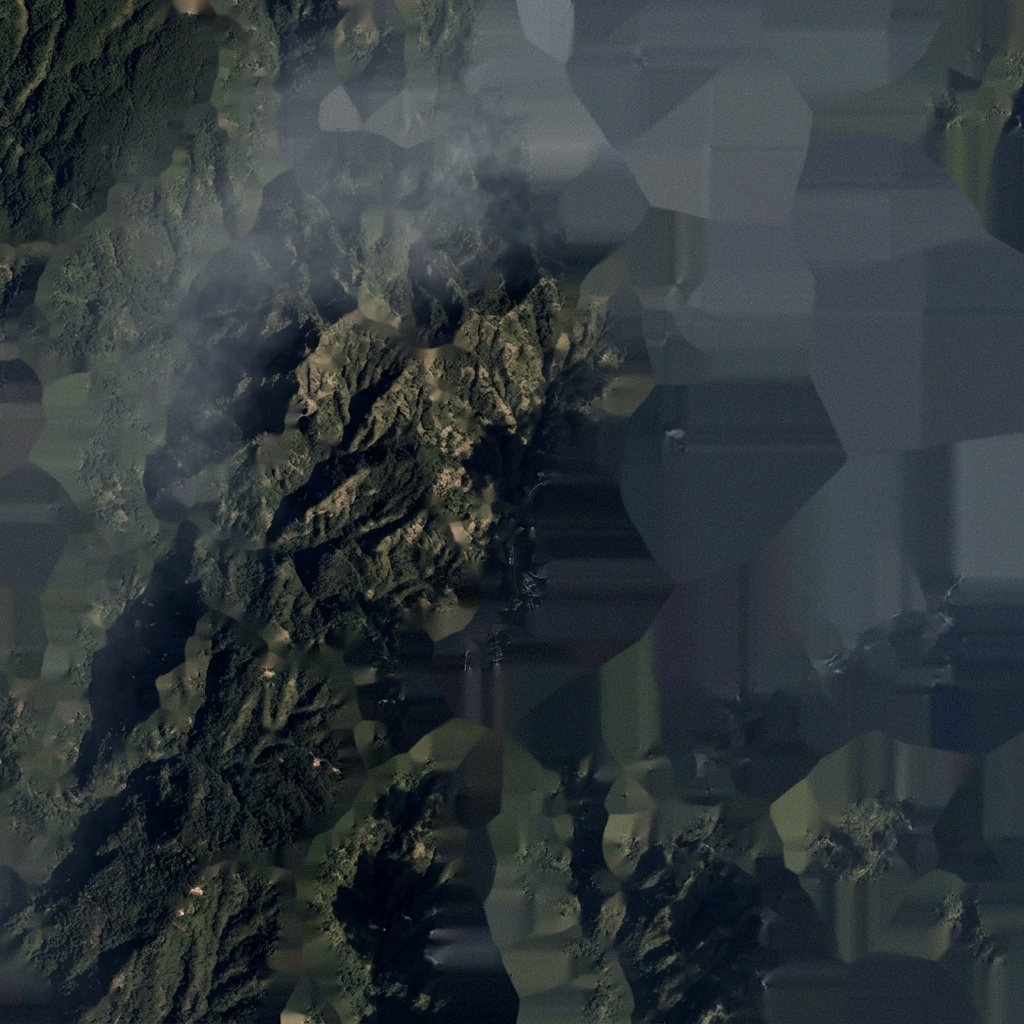
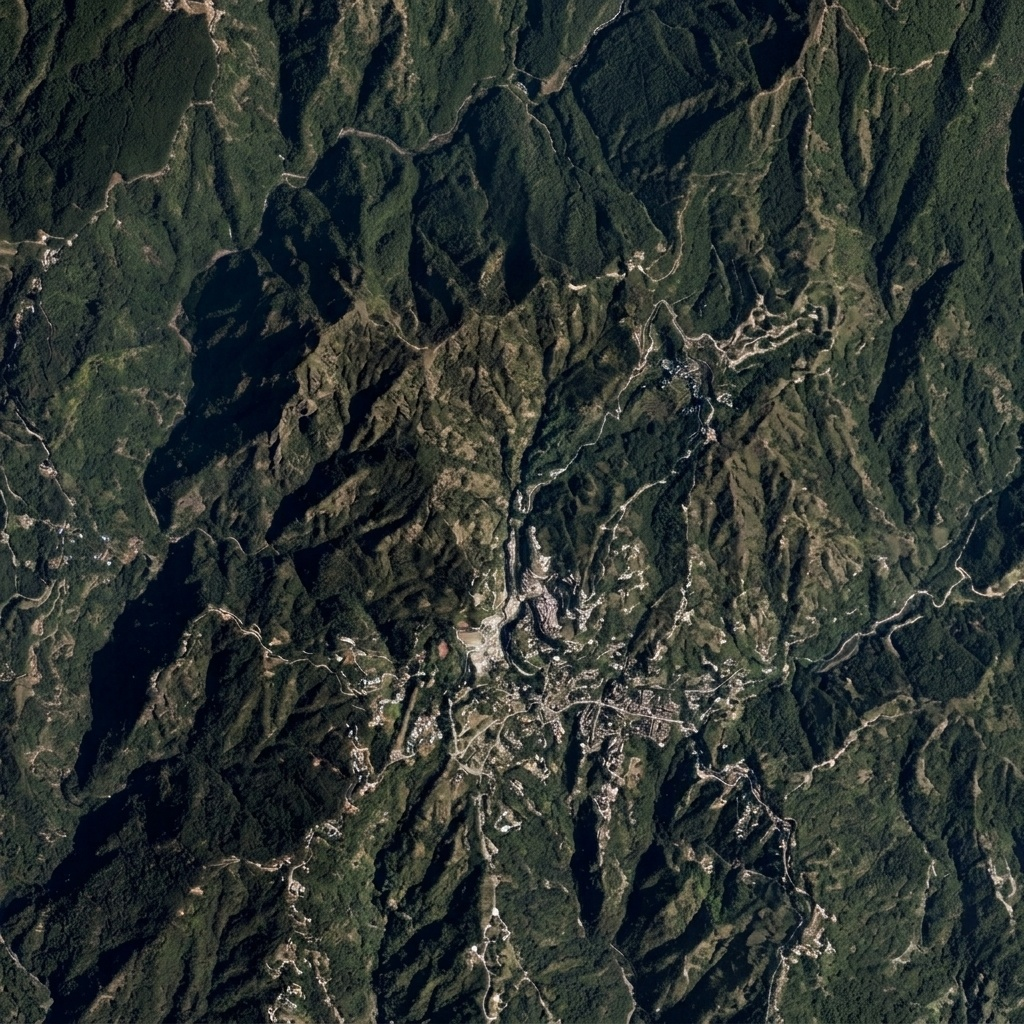
fix: replace corrupted Voronoi mosaic in Shillong clean ground truth with photorealistic cloud-free Earth Observation surface and add automatic port-freeing logic

diff --git a/webapp/app.py b/webapp/app.py
@@ -665,6 +665,25 @@ def download_result():
 
 
 if __name__ == "__main__":
-    port = int(os.environ.get("PORT", 5055))
-    print(f"🚀 LISS-IV Generative AI Cloud Removal Web App running on http://127.0.0.1:{port}")
+    import argparse
+    parser = argparse.ArgumentParser(description="CR-DiffNet Cloud Removal Studio")
+    parser.add_argument("--port", type=int, default=int(os.environ.get("PORT", 5055)), help="Port to run on")
+    args, _ = parser.parse_known_args()
+
+    port = args.port
+    # Automatically clear stale process if port is in use so user can start cleanly
+    try:
+        import subprocess
+        out = subprocess.check_output(["lsof", "-ti", f":{port}"]).decode().strip()
+        if out:
+            for pid_str in out.splitlines():
+                pid = int(pid_str.strip())
+                if pid != os.getpid():
+                    print(f"🔄 Freeing port {port} from previous process (PID {pid})...", flush=True)
+                    os.kill(pid, 9)
+            time.sleep(0.5)
+    except Exception:
+        pass
+
+    print(f"🚀 LISS-IV Generative AI Cloud Removal Web App running on http://127.0.0.1:{port}", flush=True)
     app.run(host="0.0.0.0", port=port, debug=False)
